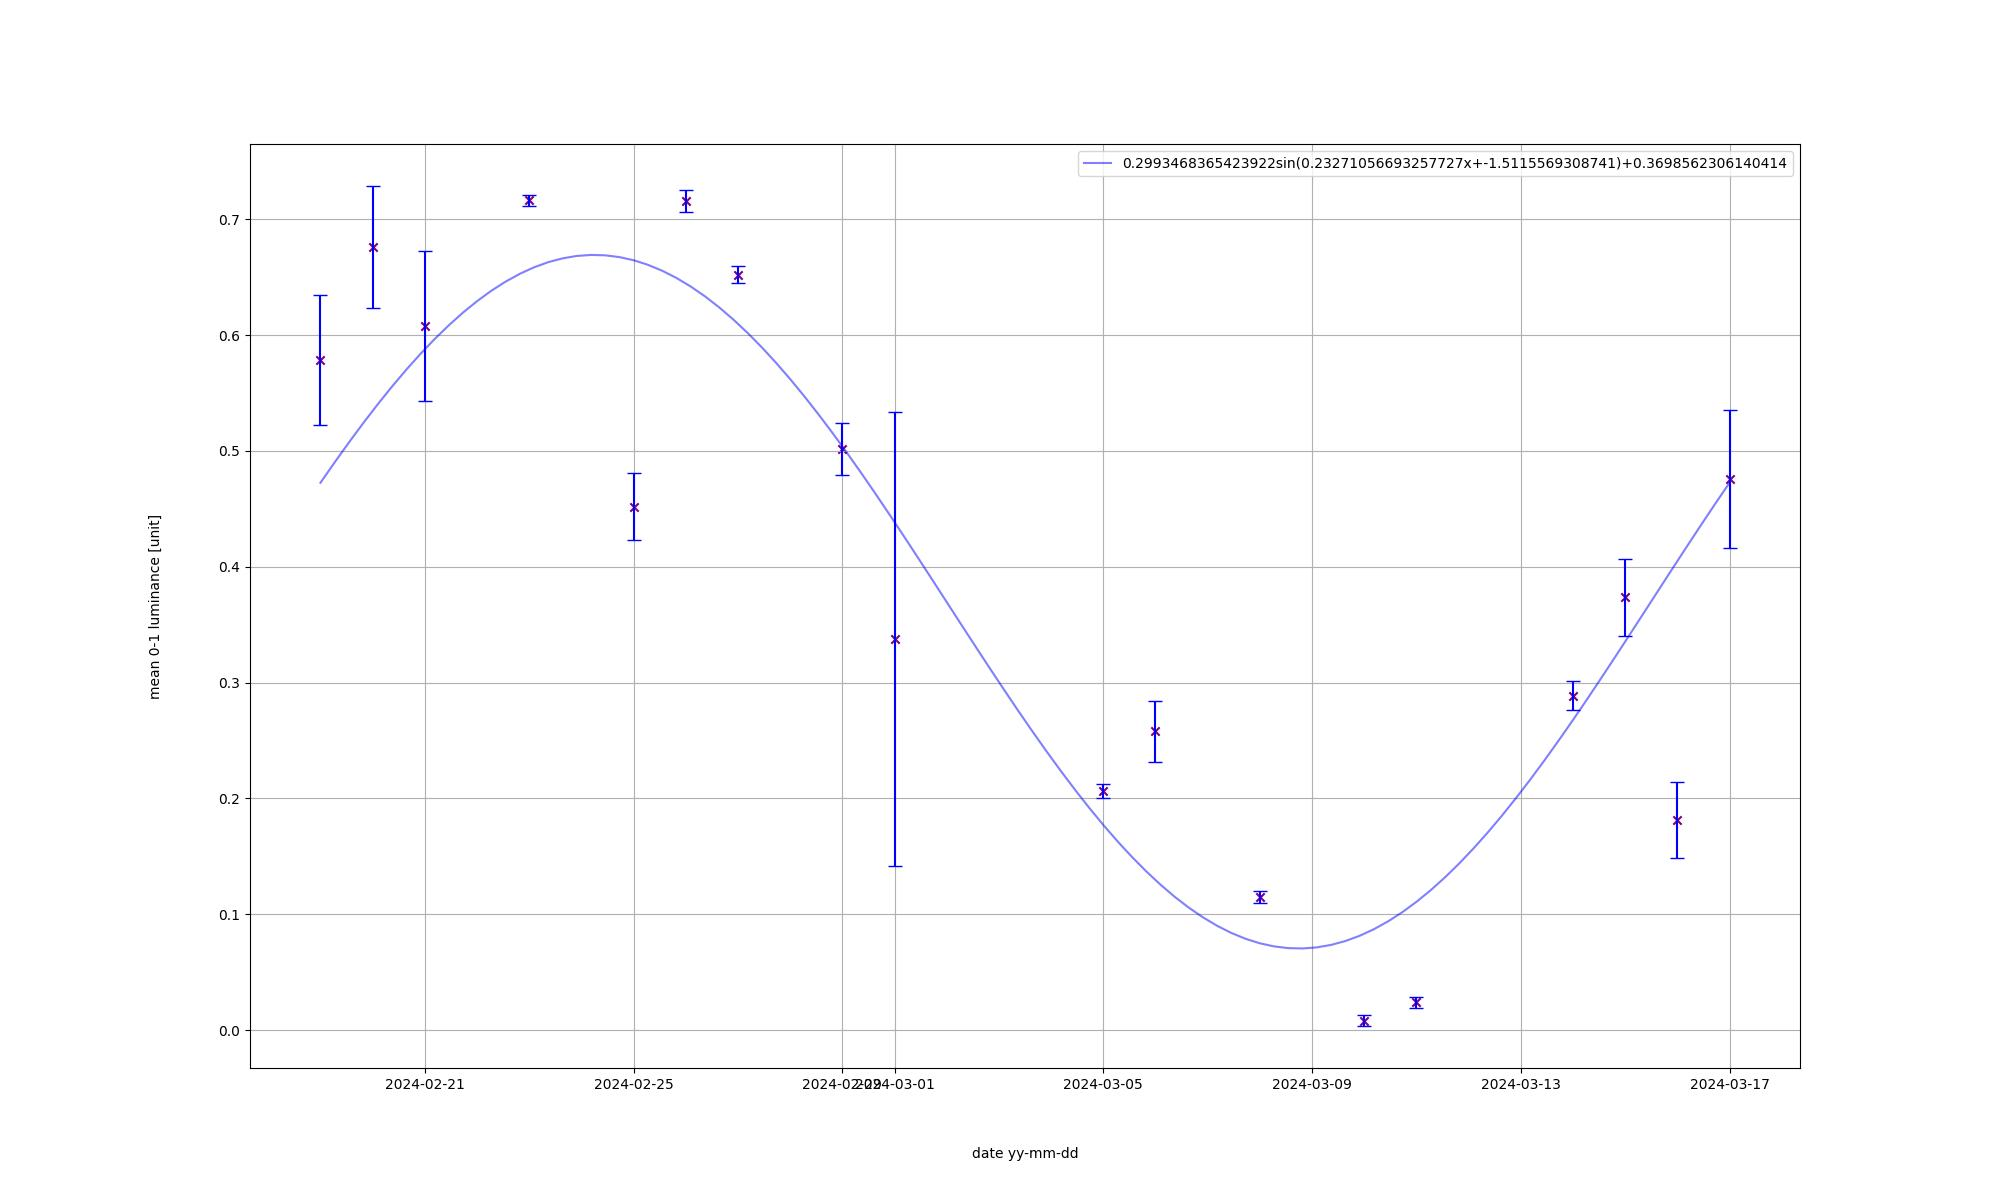
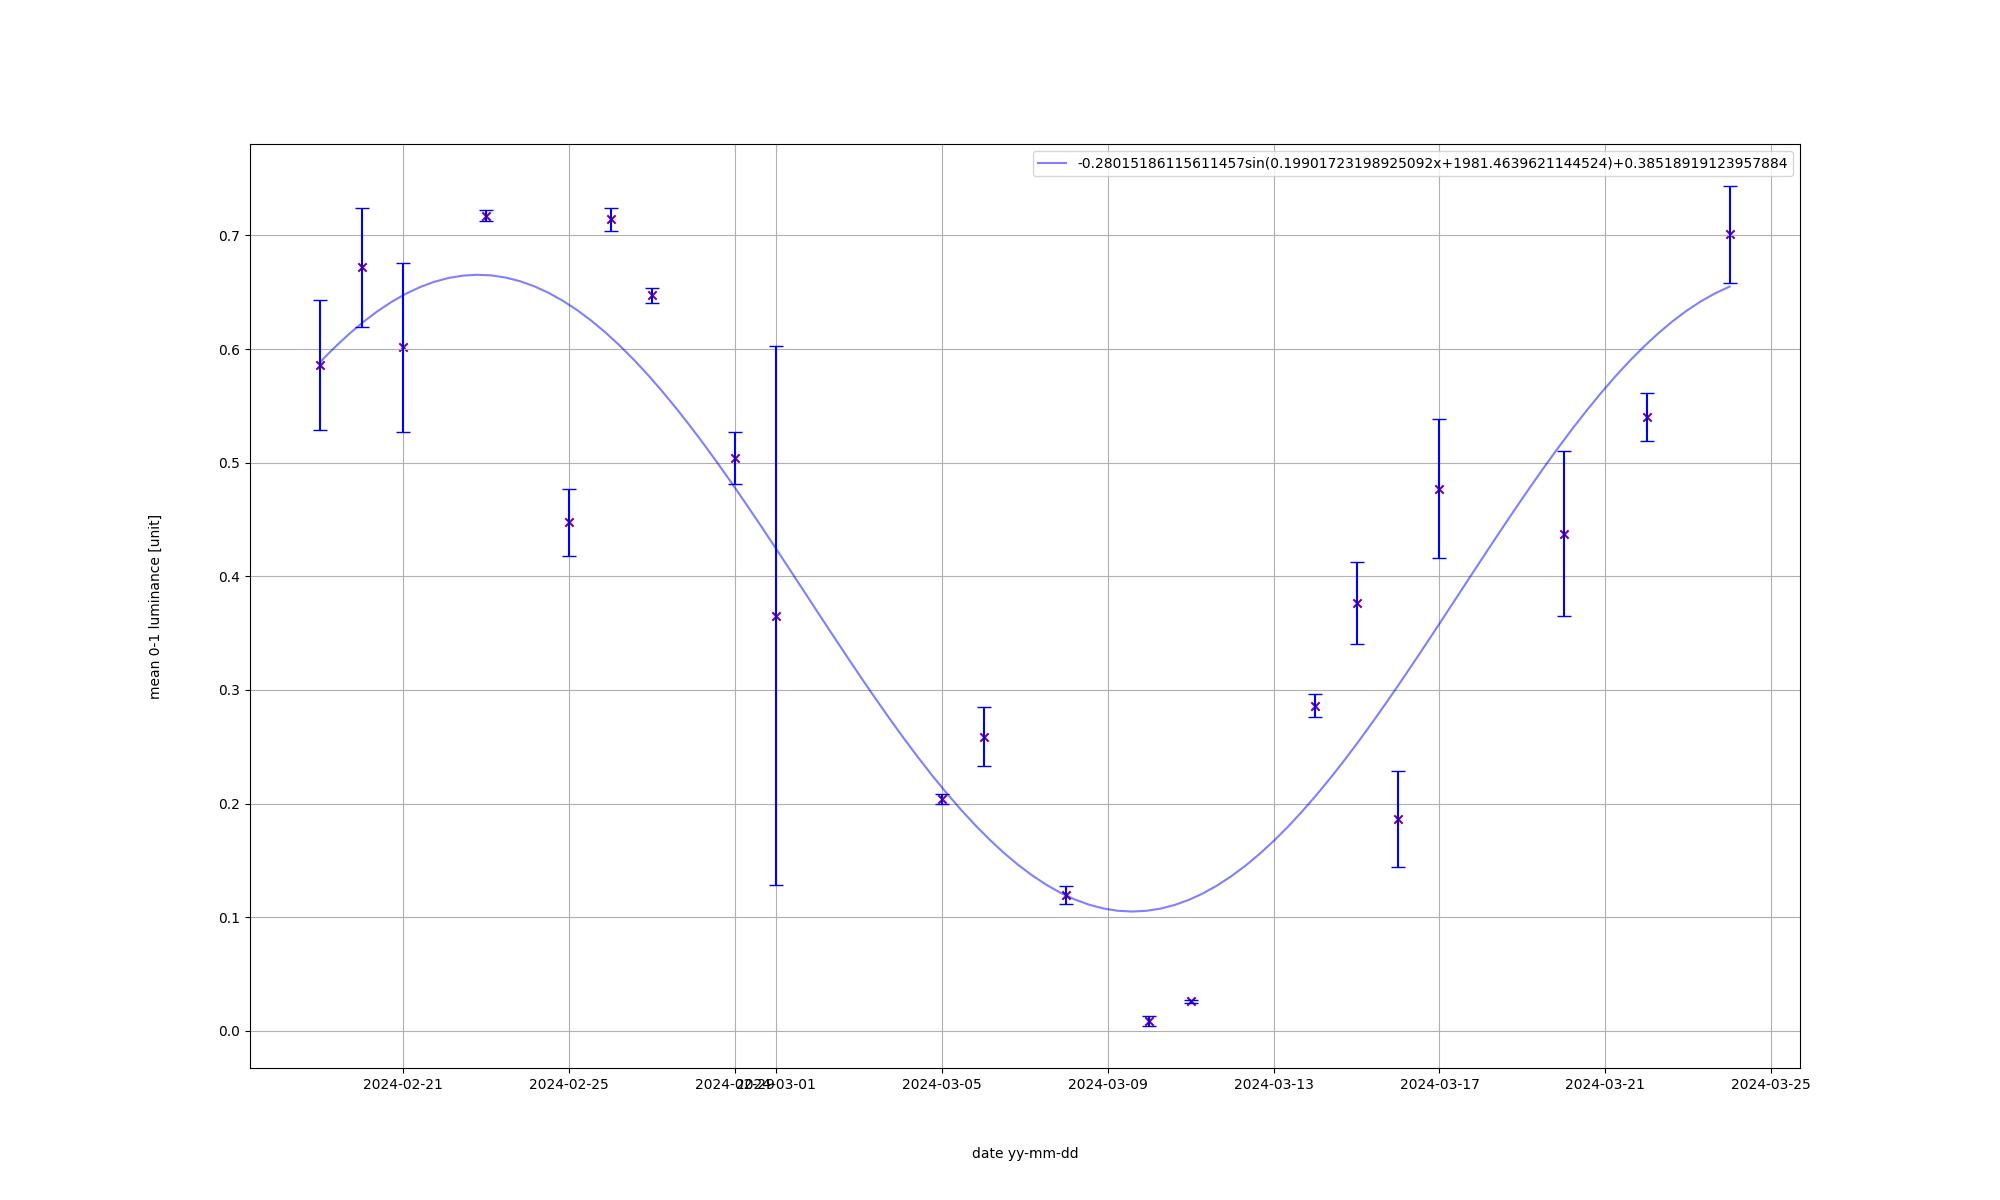
data mar 17 - mar 24

diff --git a/moon.py b/moon.py
@@ -28,7 +28,8 @@ def read_img(p: str) -> np.ndarray:
 
 # grayscale m,n,3 img to m,n
 def rgb_to_gray(img: np.ndarray) -> np.ndarray:
-	return 0.299*img[:, :, 0] + 0.587*img[:, :, 0] + 0.114*img[:, :, 0]
+	r, g, b = img[:, :, 0], img[:, :, 1], img[:, :, 2]
+	return 0.2989*r + 0.5870*g + 0.1140*b
 
 # normalize img px values to 0-1
 def normalize(img: np.ndarray) -> np.ndarray:
@@ -44,13 +45,13 @@ def fit_sin(x: np.ndarray, y: np.ndarray) -> tuple:
 	guess_freq = abs(ff[np.argmax(Fyy[1:])+1])
 	guess_amp = np.std(y) * 2.**0.5
 	guess_offset = np.mean(y)
-	# guess = np.array([guess_amp, 2.*np.pi*guess_freq, 0., guess_offset])
-	guess = np.array([guess_amp, 0., guess_offset])
+	guess = np.array([guess_amp, 2.*np.pi*guess_freq, 0., guess_offset])
+	# guess = np.array([guess_amp, 0., guess_offset])
 	
-	b = 2*m.pi / (x[-1] - x[0])
-	sinf = lambda x, a, c, d: a*np.sin(b*x+c)+d
+	# b = 2*m.pi / (29.5)
+	sinf = lambda x, a, b, c, d: a*np.sin(b*x+c)+d
 	popt, _ = curve_fit(sinf, x, y, p0=guess)
-	return *popt, b
+	return popt
 
 # find lum of img *defined as lit up pxs / total num pxs
 def luminance(img: np.ndarray, tol: float=0.8) -> float:
@@ -81,7 +82,9 @@ def all_lum(p: str, tol: float=0.8) -> tuple:
 def scatter_moon_data(moon_data: pd.DataFrame, savep: str='moon_plot2.jpg') -> None:
 	xs = moon_data['num_days'].to_numpy()
 
-	a, c, d, b = fit_sin(xs, moon_data['lum_mean'].to_numpy())
+	a, b, c, d = fit_sin(xs, moon_data['lum_mean'].to_numpy())
+	print(f'estimated_period: {2*m.pi/b}d\n')
+
 	sinf = lambda x : a * np.sin(b*x + c) + d
 
 	xs = np.linspace(xs[0], xs[-1], 100)
